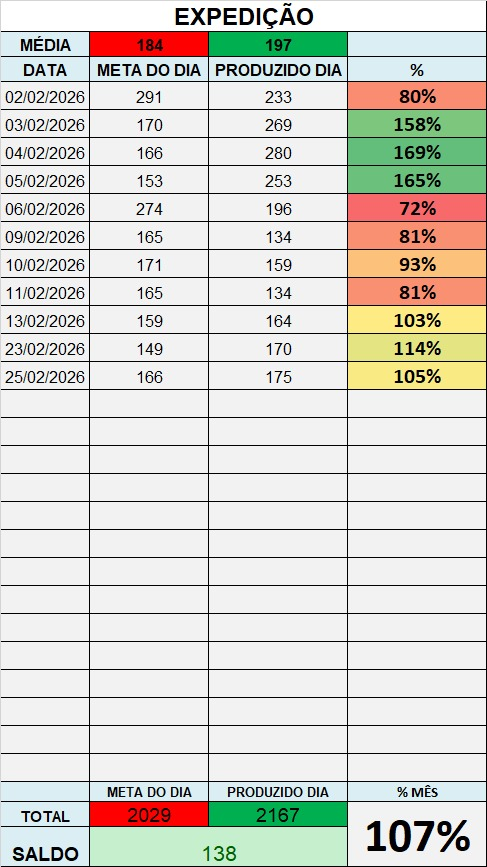
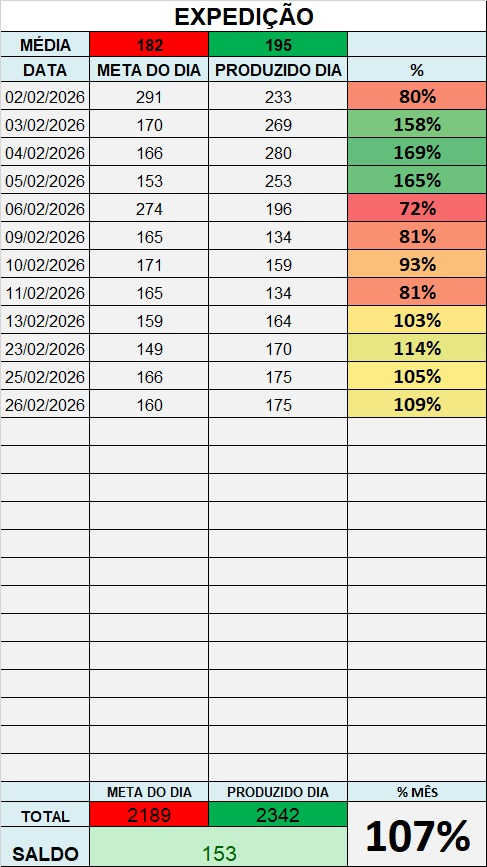
,,

diff --git a/back__incial.js b/back__incial.js
@@ -254,7 +254,7 @@ const unidades = {
             { data: "10/02/2026", captura: ["capturas/Unidade 1/2026/fevereiro/Acabamento/10.jpeg"] },
             { data: "11/02/2026", captura: ["capturas/Unidade 1/2026/fevereiro/Acabamento/11.jpg"] },
             { data: "23/02/2026", captura: ["capturas/Unidade 1/2026/fevereiro/Acabamento/23.jpg"] },
-            { data: "26/02/2026", captura: ["capturas/Unidade 1/2026/fevereiro/Acabamento/26.jpg"] },
+            { data: "25/02/2026", captura: ["capturas/Unidade 1/2026/fevereiro/Acabamento/26.jpg"] },
 
 
 
